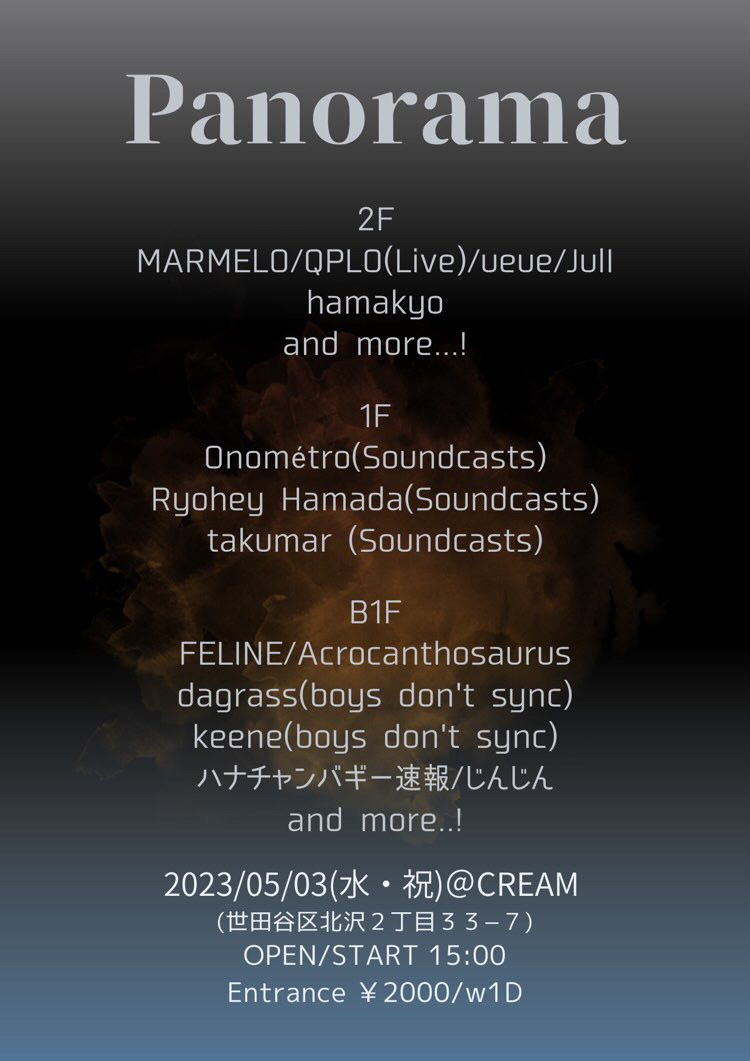
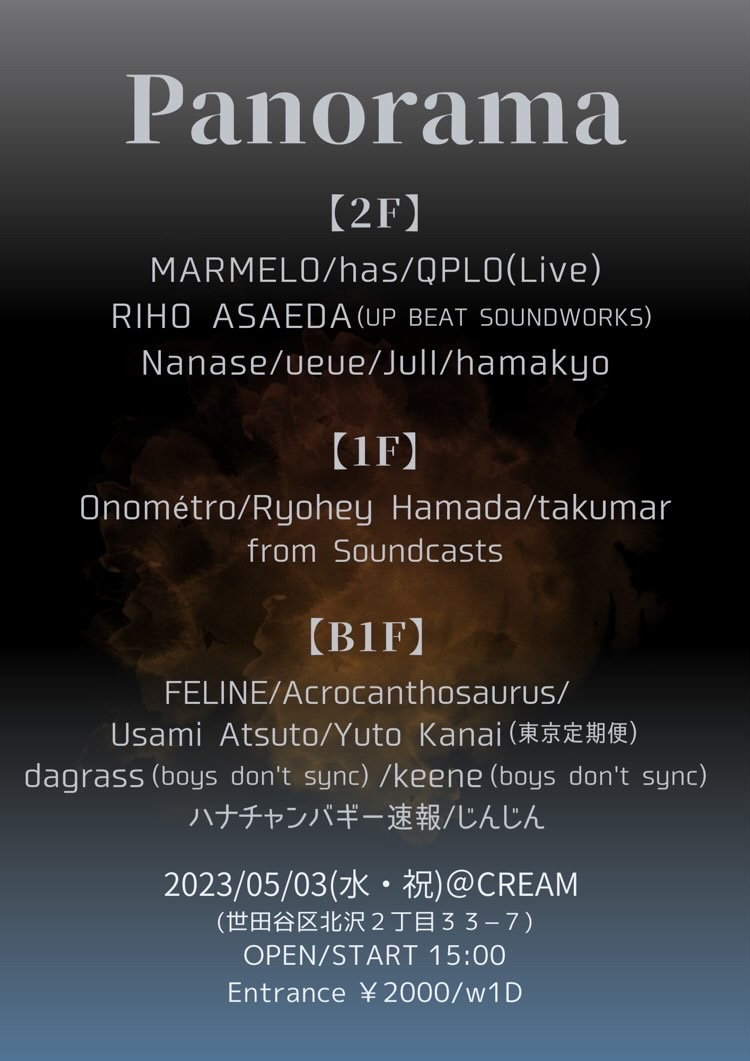
Add files via upload

diff --git a/schedule.html b/schedule.html
@@ -56,24 +56,50 @@
   <hr>
   <main>
     <div class="schedule">
-      <h3 class="scheduledate">05/03(Wed.)</h3>
-      <h2 class="schedulename"><a href="https://www.instagram.com/p/CrUp6WLS6dy/" target="_blank">Panorama</a></h2>
-      <a href="https://www.instagram.com/p/CrUp6WLS6dy/" target="_blank">
+      <h3 class="scheduledate">05/20(Sat)</h3>
+      <h2 class="schedulename"><a href="https://www.instagram.com/p/Crssj7XSxSo/" target="_blank">Soundcasts<br>"Soundcasts All Night Long"</a></h2>
+      <a href="https://www.instagram.com/p/Crssj7XSxSo/" target="_blank">
+        <img src="230520.png" alt="Schedule Image">
+      </a>
+      <p>
+        <span class="gray">Date: </span>2023.5.20(Sat) 21:00-4:00<br>
+        <span class="gray">Venue: </span>ILLAS (Shimokitazawa)<br>
+        <span class="gray">Cost: </span>Door¥1,000<br>
+        ＿＿＿＿＿＿＿＿＿＿＿＿＿＿＿<br>
+        <br>
+        Resident DJs:<br>
+        Onométro<br>
+        Ryohey Hamada<br>
+        takumar<br>
+        <br>
+        Popup:<br>
+        ATTRiPE<br>
+        Oh, iconic dogs<br>
+        <br>
+        (AtoZ)
+      </p>
+    </div>
+    <hr>
+    <div class="schedule">
+      <h3 class="scheduledate">05/03(Wed)</h3>
+      <h2 class="schedulename"><a href="https://www.instagram.com/p/CrlD5u0Shjw/" target="_blank">Panorama</a></h2>
+      <a href="https://www.instagram.com/p/CrlD5u0Shjw/" target="_blank">
         <img src="230503.jpg" alt="Schedule Image">
       </a>
       <p>
-        『Panorama』<br>
+        <span class="gray">Date: </span>2023/5/3(Wed) 15:00-23:00<br>
+        <span class="gray">Venue: </span>CREAM (Shimokitazawa)<br>
+        <span class="gray">Cost: </span>¥2000/w1D<br>
+        ＿＿＿＿＿＿＿＿＿＿＿＿＿＿＿<br>
         <br>
-        2023/5/3(水・祝) @CREAM(下北沢)<br>
-        OPEN/START 15:00<br>
-        Entrance:¥2000/w1D<br>
-        <br>
-        <br>
-        DJs<br>
+        DJs:<br>
         <br>
         【2F】<br>
         MARMELO<br>
+        has<br>
         QPLO (Live)<br>
+        RIHO ASAEDA (UP BEAT SOUNDWORKS)<br>
+        Nanase<br>
         ueue<br>
         julI<br>
         hamakyo<br>
@@ -85,27 +111,27 @@
         <br>
         【B1F】<br>
         FELINE<br>
-        Acrocanthosaurus<br> 
+        Acrocanthosaurus<br>
+        Yuto Kanai (東京定期便)<br>
+        Usami Atsuto<br>
         dagrass (boy’s don’t sync)<br>
         keene (boy’s don’t sync)<br>
         ハナチャンバギー速報<br>
         じんじん<br>
       </p>
     </div>
-    <!-- <hr> -->
+    <hr>
     <!-- <div class="schedule">
-      <h3 class="scheduledate">05/03(Wed.)</h3>
-      <h2 class="schedulename">Panorama</h2>
+      <h3 class="scheduledate">05/03(Wed)</h3>
+      <h2 class="schedulename"><a href="https://www.instagram.com/p/CrUp6WLS6dy/" target="_blank">Panorama</a></h2>
       <a href="https://www.instagram.com/p/CrUp6WLS6dy/" target="_blank">
         <img src="230503.jpg" alt="Schedule Image">
       </a>
       <p>
-        『Panorama』<br>
-        <br>
-        2023/5/3(水・祝) @CREAM(下北沢)<br>
-        OPEN/START 15:00<br>
-        Entrance:¥2000/w1D<br>
-        <br>
+        <b>"Panorama"</b><br>
+        <span class="gray">Date: </span>2023/5/3(Wed) 15:00-23:00<br>
+        <span class="gray">Venue: </span>CREAM(Shimokitazawa)<br>
+        <span class="gray">Cost: </span>¥2000/w1D<br>
         <br>
         DJs<br>
         <br>

diff --git a/schedule_soundcasts.html b/schedule_soundcasts.html
@@ -56,11 +56,27 @@
   <hr>
   <main>
     <div class="schedule">
-      <h3 class="scheduledate">05/20(Sat.)</h3>
-      <h2 class="schedulename">Soundcasts<br>"Soundcasts All Night Long"</h2>
+      <h3 class="scheduledate">05/20(Sat)</h3>
+      <h2 class="schedulename"><a href="https://www.instagram.com/p/Crssj7XSxSo/" target="_blank">Soundcasts<br>"Soundcasts All Night Long"</a></h2>
+      <a href="https://www.instagram.com/p/Crssj7XSxSo/" target="_blank">
         <img src="230520.png" alt="Schedule Image">
+      </a>
       <p>
-        ...more information comming soon!
+        <span class="gray">Date: </span>2023.5.20(Sat) 21:00-4:00<br>
+        <span class="gray">Venue: </span>ILLAS (Shimokitazawa)<br>
+        <span class="gray">Cost: </span>Door¥1,000<br>
+        ＿＿＿＿＿＿＿＿＿＿＿＿＿＿＿<br>
+        <br>
+        Resident DJs:<br>
+        Onométro<br>
+        Ryohey Hamada<br>
+        takumar<br>
+        <br>
+        Popup:<br>
+        ATTRiPE<br>
+        Oh, iconic dogs<br>
+        <br>
+        (AtoZ)
       </p>
     </div>
     <!-- <hr> -->

diff --git a/style.css b/style.css
@@ -43,6 +43,11 @@ h3 {
 p {
     font-size: 1em;
     letter-spacing: 0.02em;
+    line-height: 1.5em;
+}
+
+.gray {
+    color: #bbb;
 }
 
 a {
@@ -94,7 +99,7 @@ img{
 
 hr {
     border: 0.1em solid;
-    margin-bottom: 3em;
+    margin-bottom: 2em;
 }
 
 .upcoming{
@@ -108,8 +113,8 @@ hr {
 
 .schedule{
     width: 320px;
-    margin-top: 3em;
-    margin-bottom: 4em;
+    margin-top: 2.5em;
+    margin-bottom: 2.5em;
 }
 
 .scheduledate{

diff --git a/index.html b/index.html
@@ -63,7 +63,7 @@
     <div class="info_top">
       <h3 class="upcoming">&#x25BC; Upcoming!</h3>
       <a href="/schedule">
-        <img src="230503.jpg" alt="Upcoming">
+        <img src="230520.png" alt="Upcoming">
       </a>
     </div>
     <h2 class="menu"><a href="/schedule_soundcasts">Schedule(Soundcasts)</a></h2>
